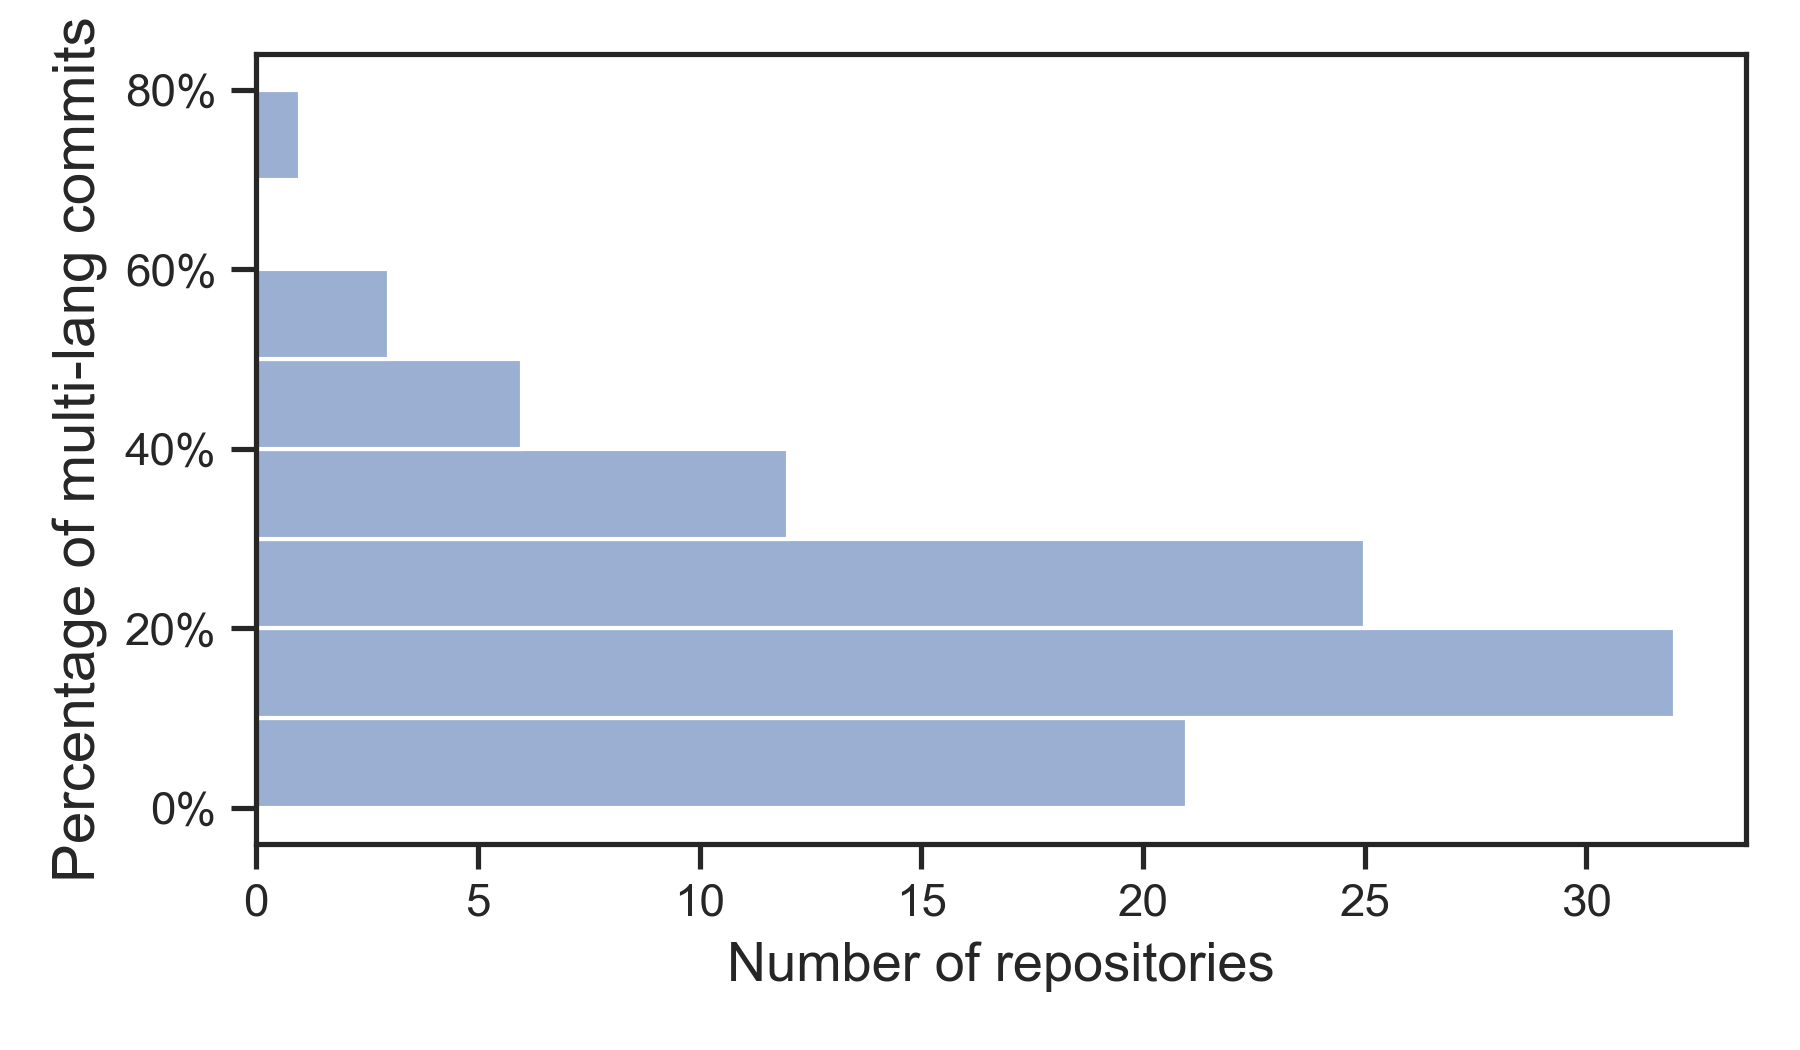
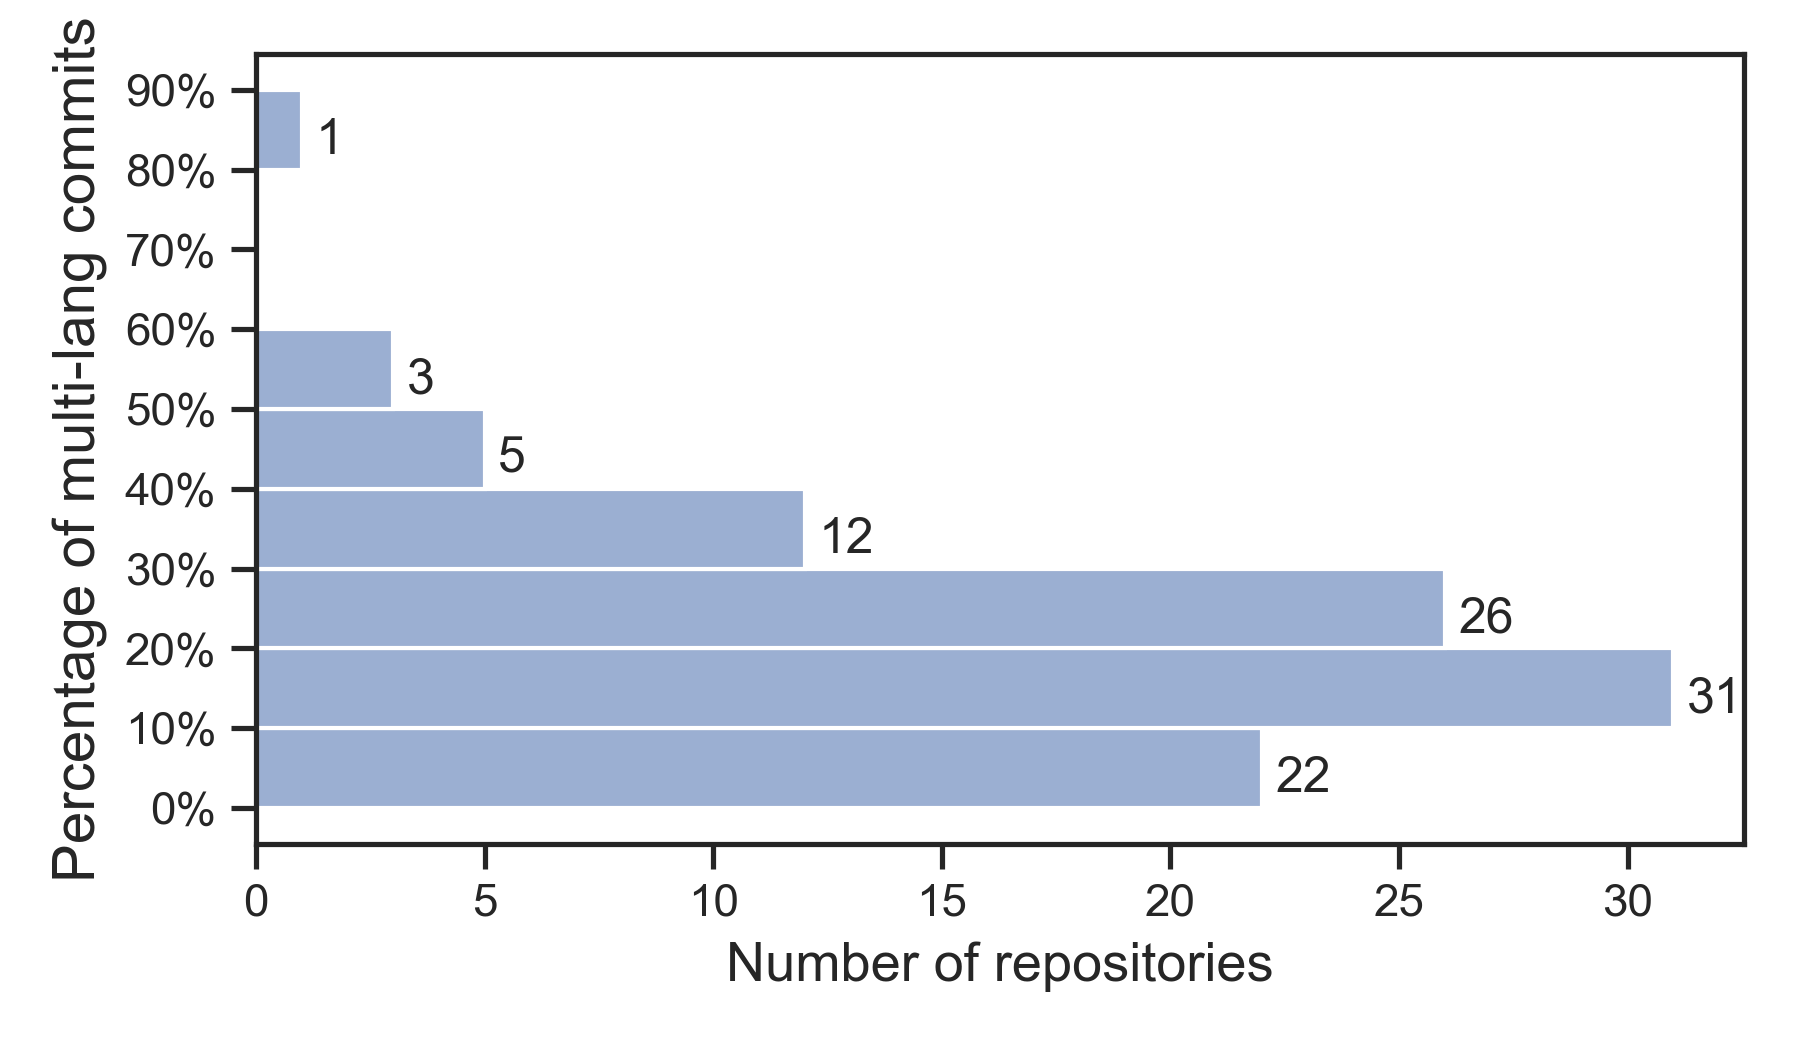
multilang percentage plot number added right to bar; remove merge commit in multilang percentage calculation

diff --git a/plot_gen/code/repo_multilang_percent_plot.py b/plot_gen/code/repo_multilang_percent_plot.py
@@ -6,6 +6,7 @@ import seaborn as sns
 import pandas as pd
 import sys
 from matplotlib import pyplot
+import numpy as np
 
 if sys.argv[1] == "plot":
     csv_dir = "../csv"
@@ -13,6 +14,7 @@ if sys.argv[1] == "plot":
 elif sys.argv[1] == "data":
     work_dir = sys.argv[2]
     csv_dir = "../csv"
+    repo_list = sys.argv[3]
 row = 0
 
 commit_cnt = 0
@@ -50,6 +52,8 @@ def check(repo_obj):
                 continue
             else:
                 shas.add(str(commit))
+            if len(commit.parents) > 1:
+                continue
             commit_total += 1
             xml_cnt = 0
             kot_jav_cnt = 0
@@ -91,7 +95,6 @@ def check(repo_obj):
 
 
 def allRepos():
-    repo_list = "/home/yuailun/repo_list"
     with open(repo_list) as list_fd:
         json_obj = json.load(list_fd)
         assert (len(json_obj) == 100)
@@ -112,6 +115,30 @@ def allRepos():
             csv_writer.writerow([i[0], i[1]])
 
 
+def show_values_on_bars(axs, h_v="v", space=0.4):
+    def _show_on_single_plot(ax):
+        if h_v == "v":
+            for p in ax.patches:
+                _x = p.get_x() + p.get_width() / 2
+                _y = p.get_y() + p.get_height()
+                value = int(p.get_height())
+                ax.text(_x, _y, value, ha="center")
+        elif h_v == "h":
+            for p in ax.patches:
+                _x = p.get_x() + p.get_width() + float(space)
+                _y = p.get_y() + p.get_height() - 8
+                value = int(p.get_width())
+                if value == 0:
+                    continue
+                ax.text(_x, _y, value, ha="left")
+
+    if isinstance(axs, np.ndarray):
+        for idx, ax in np.ndenumerate(axs):
+            _show_on_single_plot(ax)
+    else:
+        _show_on_single_plot(axs)
+
+
 def drawPlot():
     sns.set_theme(style="ticks", palette="pastel")
     data = pd.read_csv(os.path.join(csv_dir, "multi-lang-percent.csv"))
@@ -119,15 +146,17 @@ def drawPlot():
     plot = sns.histplot(data=data,
                         y="percentage",
                         binwidth=10,
-                        binrange=(0, 80),
+                        binrange=(0, 90),
                         color="#7a95c4",
                         ax=ax)
     # plot.set(ymargin=3)
     # plot.set_ylim(bottom=0)
+    plot.set_yticks([0, 10, 20, 30, 40, 50, 60, 70, 80, 90])
     ylabels = ['{:,.0f}'.format(x) + '%' for x in plot.get_yticks()]
     plot.set_yticklabels(ylabels)
     plot.set_xlabel(xlabel="Number of repositories", fontsize=13)
     plot.set_ylabel(ylabel="Percentage of multi-lang commits", fontsize=14)
+    show_values_on_bars(plot, 'h', 0.3)
     fig.tight_layout()
     fig = plot.get_figure()
     fig.savefig(os.path.join(plot_dir, "multi-lang-percent.png"), dpi=300)

diff --git a/statistics.py b/statistics.py
@@ -17,7 +17,6 @@ newsheet.write(row, 4, "percent")
 
 commit_cnt = 0
 changed_files_cnt = 0
-all_commit_cnt = 0
 all_changed_cnt = 0
 
 
@@ -25,7 +24,6 @@ def check(repo_obj):
     global row
     global commit_cnt
     global changed_files_cnt
-    global all_commit_cnt
     global all_changed_cnt
 
     repo_name = repo_obj["owner"]["login"] + "-" + repo_obj["name"]
@@ -45,14 +43,15 @@ def check(repo_obj):
         commits = list(repo.iter_commits('remotes/' + b.name))
         # commit_total = len(commits)
         for idx, commit in enumerate(commits):
-            xml_cnt = 0
-            kot_jav_cnt = 0
-            all_commit_cnt += 1
-
             if str(commit) in shas:
                 continue
             else:
                 shas.add(str(commit))
+            if len(commit.parents) > 1:
+                continue
+
+            xml_cnt = 0
+            kot_jav_cnt = 0
 
             commit_total += 1
 
